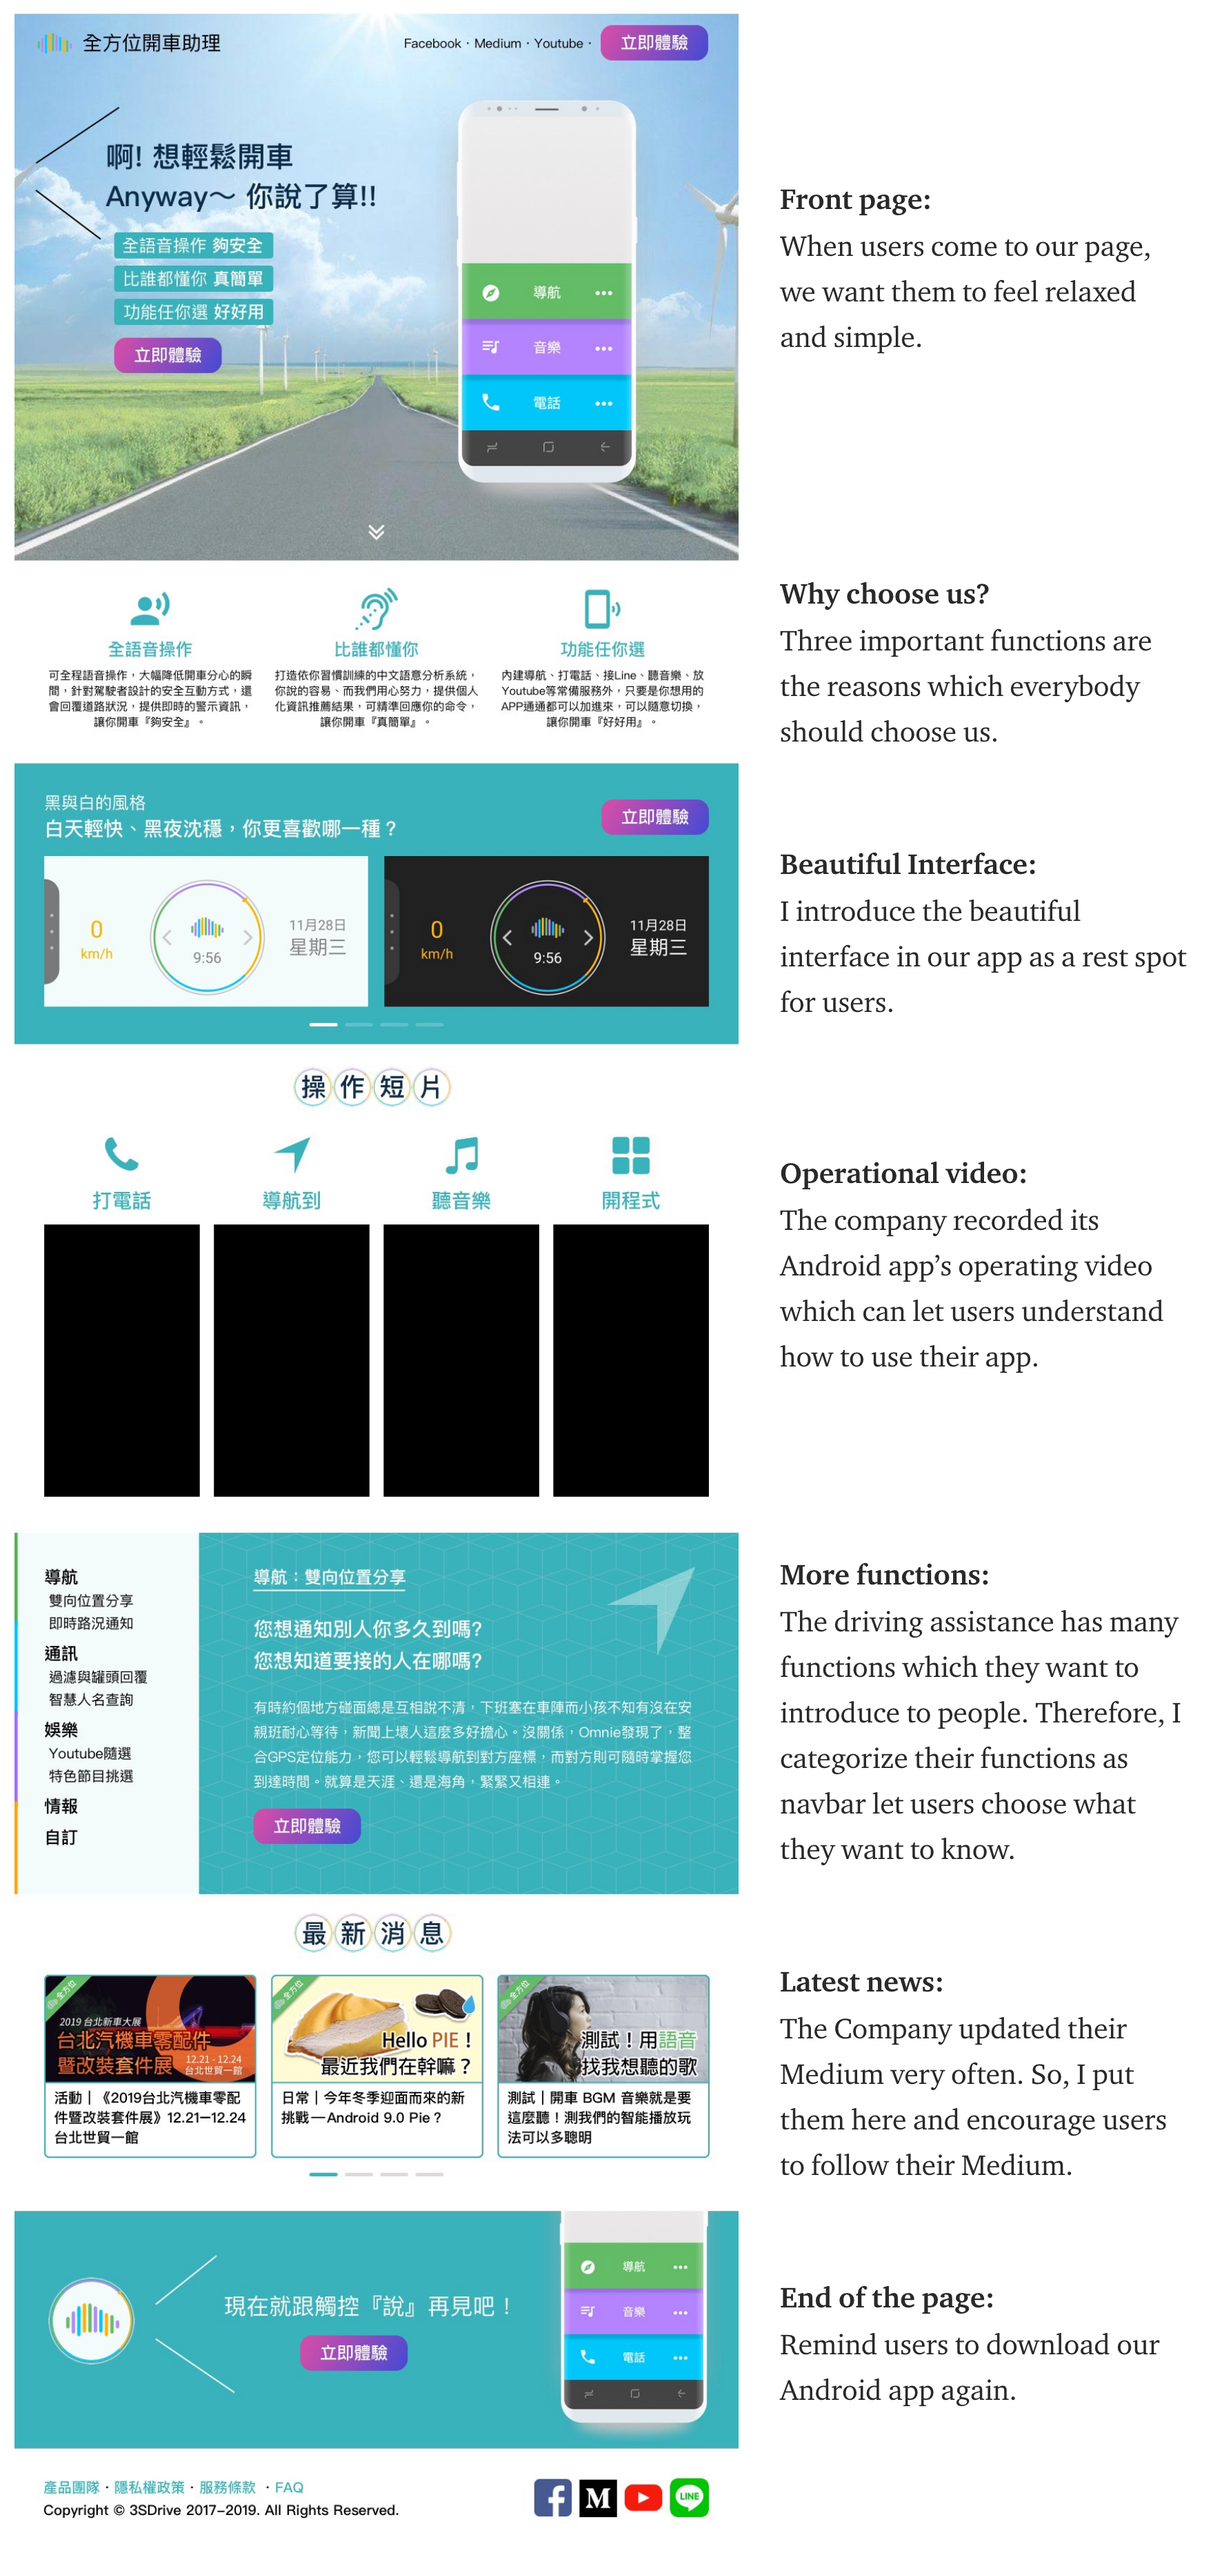
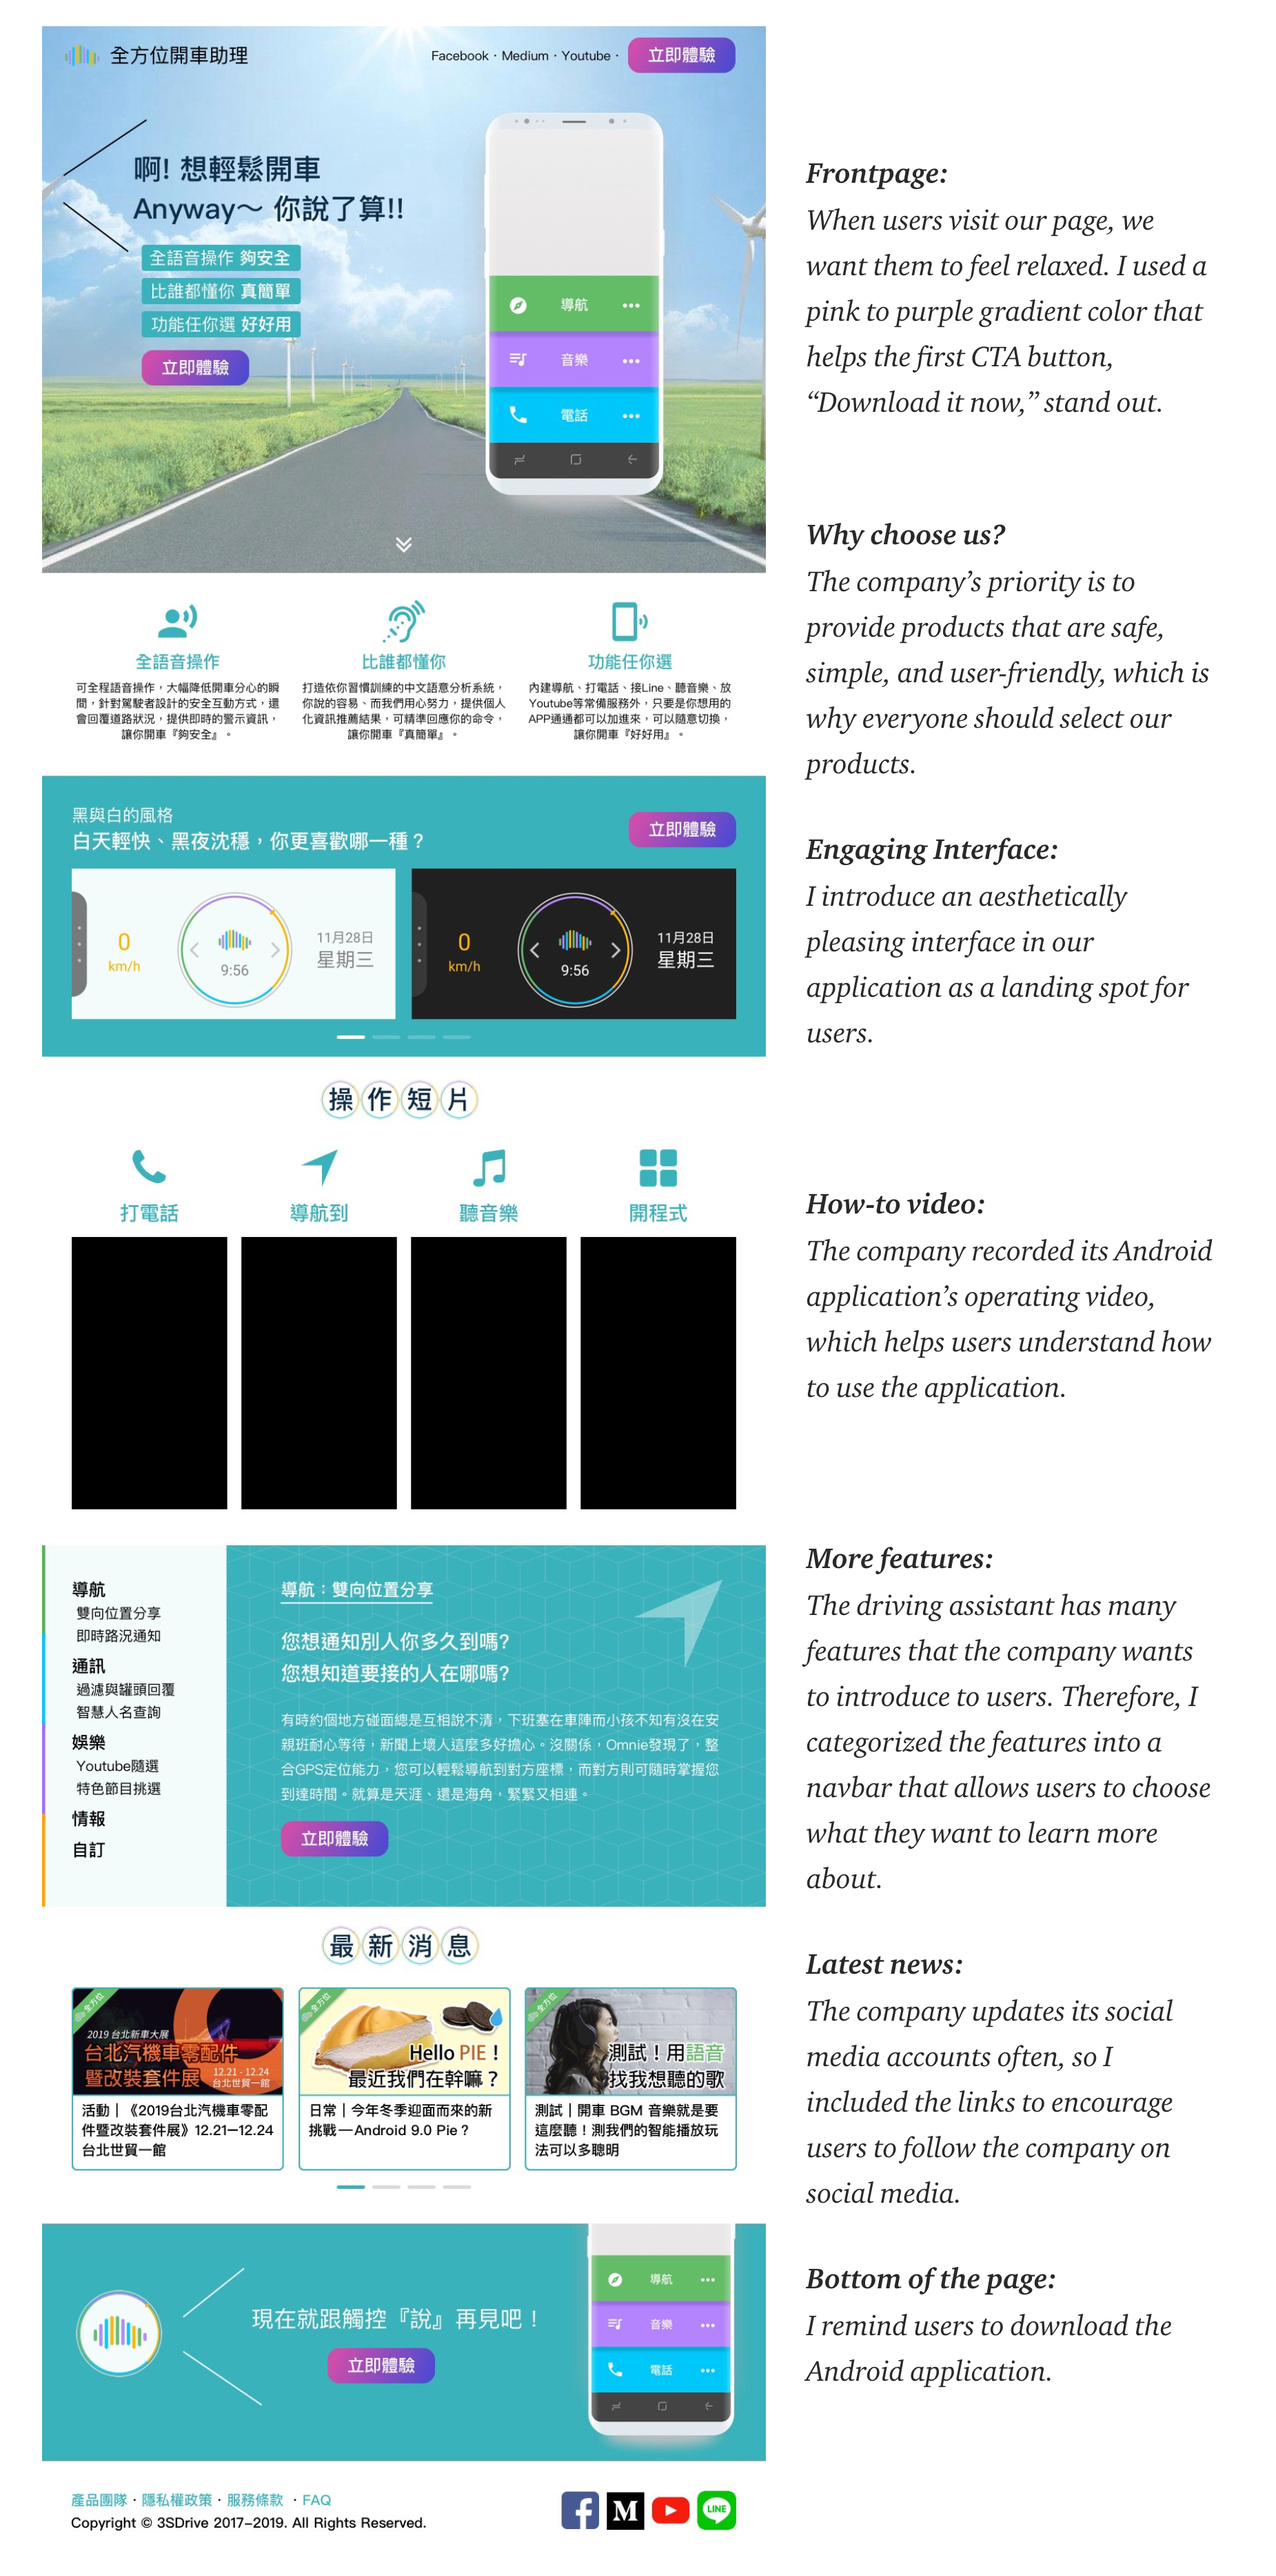
landing page profreading

diff --git a/works/3sdrive.html b/works/3sdrive.html
@@ -72,7 +72,7 @@
 			<div class="container">
 				<h1>Landing Page</h1>
 				<div class="webintro">
-					<p>A landing page aim to promote the Android app, Driving Assistance.</p>
+					<p>The landing page promotes the Android application, which provides a voice assistant while driving.</p>
 
 				</div>
 				<img src="../img-new/md_3sdrive.png" alt="">
@@ -86,11 +86,13 @@
 
 			<div class="list">
 				<h4>Overview</h4>
-				<p>After the supervisor from a startup seeing my resume and portfolio at job sites, he decided to corporate this
-					landing page with me as a freelance. This landing page aims to promote its Android app, Omnie, a personal
-					driving voice assistance that offers a smarter and safer way to use phones while driving. Users can get the
-					navigation way, play music, call friends or even send messages by asking it questions or telling it to do
-					things while driving. It features that it is safe, simple and easy to use. </p>
+				<p>After the supervisor from a startup company reviewed my resume and portfolio on a job site, he decided to
+					hire me as a freelancer to create this landing page. This landing page is intended to promote the company’s
+					Android application, Omnie, which is a personal voice assistant that offers a smarter and safer way to use
+					phones while driving. While driving, users can prompt the voice assistant to bring up navigation, play music,
+					call friends, or even send text messages. Its features are safe, simple, and user-friendly.
+
+				</p>
 			</div>
 
 			<div class="list point">
@@ -110,16 +112,18 @@
 			<div class="seperate"> ·&nbsp;&nbsp;&nbsp;·&nbsp;&nbsp;&nbsp;·</div>
 
 			<div class="list">
-				<h4>Think Before Design
+				<h4>Reviewing the Design
+
 				</h4>
-				<p>Reviewing the original design is for not to repeat the mistake again. I have three main suggestions for the
-					original design.
+				<p>I reviewed the original design to understand its faults, and I have three main suggestions for improvement
+					regarding the design.
 				</p>
 
-				<p><b>Problem #1 - The picture is very FAR AWAY from their brand spirit</b><br>The picture of the origin
-					front-page design will let people notice that ice, snow and heavy-duty vehicles,
-					give me the feeling of being strong, heavy and cold. Maybe they want to highlight their durable, however, It
-					is very far away from the brand spirit, safe, simple and easy to use.
+				<p><b>Problem 1: The image does not align with the spirit of their brand.</b><br>The original front-page image
+					features ice, snow, and heavy-duty vehicles, giving me a strong, heavy, and cold feeling. Maybe they want to
+					highlight their durability; however, it does not align with the spirit of their brand, which is meant to focus
+					on being safe, simple, and user-friendly.
+
 
 				</p>
 
@@ -130,7 +134,8 @@
 
 			<div class="list-img">
 				<img src="img/portfolio/3sdrive/old1.png" alt="">
-				<div class="caption"> The original design is very far away from their brand spirit.</div>
+				<div class="caption">The original design does not align with their brand.
+				</div>
 			</div>
 
 
@@ -138,22 +143,23 @@
 
 			<div class="list">
 
-				<p><b>Problem #2 - “read more” should not be the most obvious button
-					</b><br>In addition, the most obvious button, Call to Action(CTAs) button, in the front page is "read more", I
-					can feel the desire to let users continue reading it, but I think that every company does this landing page is
-					not merely to introduce the product. Their purpose of a landing page is converting which allows potential
-					customers who enter this page to convert into real purchases, downloads, community tracking, and more.
-					Therefore, I think the most important button is to "download". Moreover, I recommend the CTAs should be
-					descriptive, so it should be "download it now!" or "try it now!".
+				<p><b>Problem 2: “Read more” should not be the most visible button.
+					</b><br>The most visible button on the front page, also known as a call-to-action (CTA) button, is the "read
+					more" button. I can understand why the company would want users to continue reading about the application, but
+					it doesn’t help convert purchases of the product. The purpose of a landing page is to convert users, which
+					allows potential customers who enter the page to make purchases and pursue downloads, community tracking, and
+					more. Therefore, I think the most important button is the "Download" button. In addition, I recommend that the
+					CTAs should be more directive with statements such as "Download it now!" or "Try it now!"
 
 
 				</p>
-				<p><b>Problem #3 - The conflicting color scheme doesn’t fit its brand spirit
+				<p><b>Problem 3: The conflicting color scheme does not align with the spirit of the brand.
 
-					</b><br>Since the brand spirit is safe, simple and easy to use, our purpose of this website is to make users
-					feel relaxed and simple. However, the original color scheme is green and orange-red which let me feel so
-					conflicting. Therefore, when it comes to color choices, I tend to choose colors that are harmonious rather
-					than conflicting.
+
+					</b><br>Since the brand’s mission is to be safe, simple, and user-friendly, the website should make users feel
+					relaxed. However, the original color scheme is green and reddish-orange, which is conflicting. Therefore, when
+					choosing colors for the re-design, I chose colors that were harmonious instead of conflicting.
+
 
 
 
@@ -164,20 +170,23 @@
 
 			<div class="list-img">
 				<img src="img/portfolio/3sdrive/old2.png" alt="">
-				<div class="caption">The color of original design is conflicting.</div>
+				<div class="caption">The color scheme of the original design is conflicting.
+				</div>
 			</div>
 
 			<div class="seperate">·&nbsp;&nbsp;&nbsp;·&nbsp;&nbsp;&nbsp;·</div>
 
 			<div class="list">
-				<h4>Design Thinking
+				<h4>Imagining the Re-design
+
 				</h4>
 
-				<p><b>Solution #1 - First image of the landing page
-					</b><br>To solve these problems, we need to focus on the product, personal driving voice assistance and its
-					feature which is safe, simple and easy to use. Therefore, I use a straight road with grass around as the
-					background to imply that it is very safe, simple and relax. Moreover, I use their advertisement slogan into a
-					dialog way to imply that it a voice-related product.
+				<p><b>Solution 1: Primary image on the landing page
+					</b><br>To solve this issue, we need to focus on the product, which is safe, simple, and user-friendly.
+					Therefore, I chose to use an image of a straight road surrounded by grass to imply that the product is safe
+					and simple. Additionally, I present their advertisement slogan as a dialogue to align with the voice-related
+					product.
+
 				</p>
 			</div>
 
@@ -186,28 +195,35 @@
 
 			<div class="list">
 
-				<p><b>Solution #2 - The arrangement of CTA buttons
-					</b><br>I proposed that there are three Call-to-Actions(CTA) buttons for the landing page:
+				<p><b>Solution 2: The arrangement of CTA buttons
+					</b><br>I propose that there should be three CTA buttons for the landing page:
+
 					<br>
-					1. Download the Android app<br>
-					2. Follow the company’s social media <br>
-					3. Read the whole page
+					1. A button that encourages users to download the Android application
+					<br>
+					2. A button encouraging users to follow the company’s social media accounts
+					<br>
+					3. A button that allows users to read the entirety of the text on the landing page
+
 					<br>
 				</p>
 				<p>
-					According to the three CTAs, I redesign the front page. I use a purple gradient color that helps the first CTA
-					button, “Download it now”, which is the most important button in this page to stand out. I also put the social
-					media link at the top of the navbar but just in a text form not in a distinct color or background. Finally, I
-					put a down icon as read more to hint users to read the whole page.
+					I re-designed the landing page according to these three CTAs. Because the “Download it now” button is the most
+					important, I used a pink to purple gradient color that helps it stand out. I also put the social media link at
+					the top of the navbar, but in a simple text form with no distinct colors or backgrounds. Finally, I used a
+					downward-facing arrow with the “Read more” button to cue users to read the whole page.
+
 				</p>
 			</div>
 
 			<div class="list">
 
-				<p><b>Solution #3 - Color Scheme
-					</b><br>In order not to be so conflicting, I give up the original color scheme, green and orange-red. I use a
-					green-blue color (green stands for safe, easy to use and blue stands for simple, professional) to be the
-					primary color and a gradient color from pink to purple as an accent color.
+				<p><b>Solution 3: Color scheme
+
+					</b><br>To avoid harsh, clashing colors, I chose to get rid of the green and reddish-orange color scheme. I
+					chose to utilize a green-blue color, which symbolizes safety and simplicity, as the primary color. I also used
+					a pink to purple gradient color as an accent color.
+
 
 				</p>
 			</div>
@@ -215,7 +231,8 @@
 
 			<div class="list-img">
 				<img src="img/portfolio/3sdrive/new1.jpeg" alt="">
-				<div class="caption">Redesign front page</div>
+				<div class="caption">Re-design of the front page
+				</div>
 			</div>
 
 
@@ -235,12 +252,13 @@
 
 
 			<div class="list">
-				<h4>Redesign the Landing Page</h4>
+				<h4>Re-designing the Landing Page
+				</h4>
 			</div>
 
 
 			<div class="list-img">
-				<img src="img/portfolio/3sdrive/redesign.png" alt="" style="min-width:60vw">
+				<img src="../img/portfolio/3sdrive/redesign.png" alt="" style="min-width:60vw">
 			</div>
 
 

diff --git a/works/personalwebsite.html b/works/personalwebsite.html
@@ -187,7 +187,7 @@
 
 				</p>
 				<p><b>(1) Works:</b><br>
-					Instead of putting a lot of information, such as introduction, skills, and pictures on my index page, I now
+					Instead of putting a lot of information such as introduction, skills, and pictures on my index page, I now
 					only put my works on this page to highlight the importance of the portfolio. I have reduced the number of
 					works to ensure the portfolio’s quality. Furthermore, I have put a filter on my works. If users want to see
 					the coding work, they can use the filter to reveal it.
